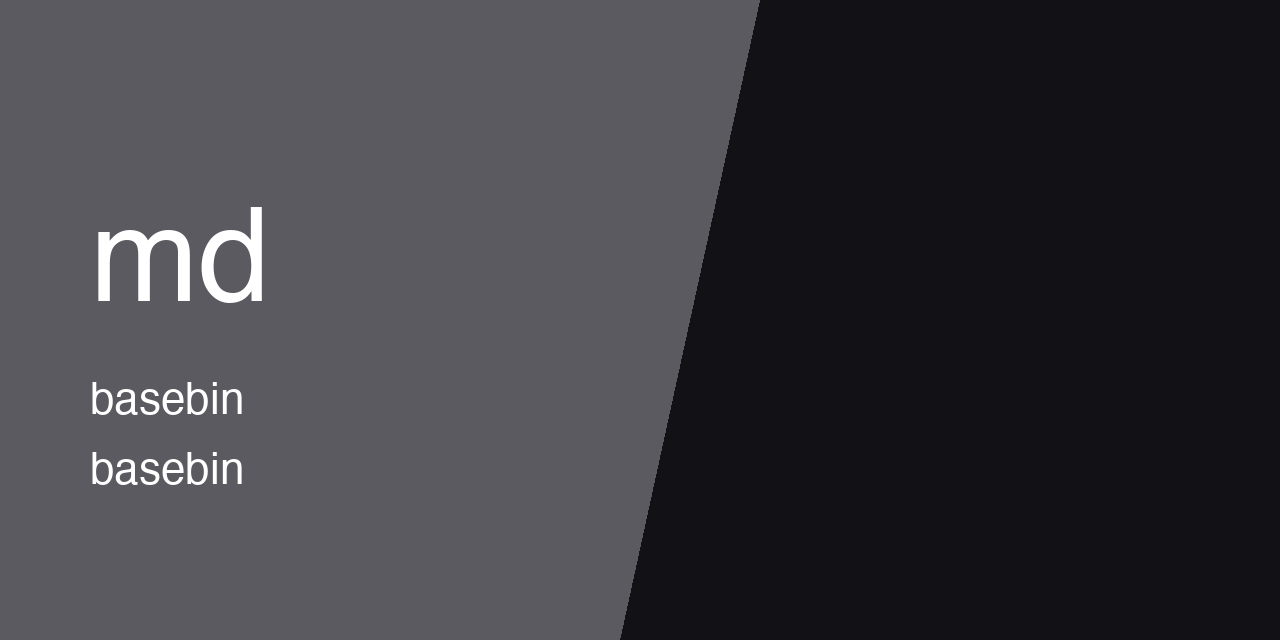
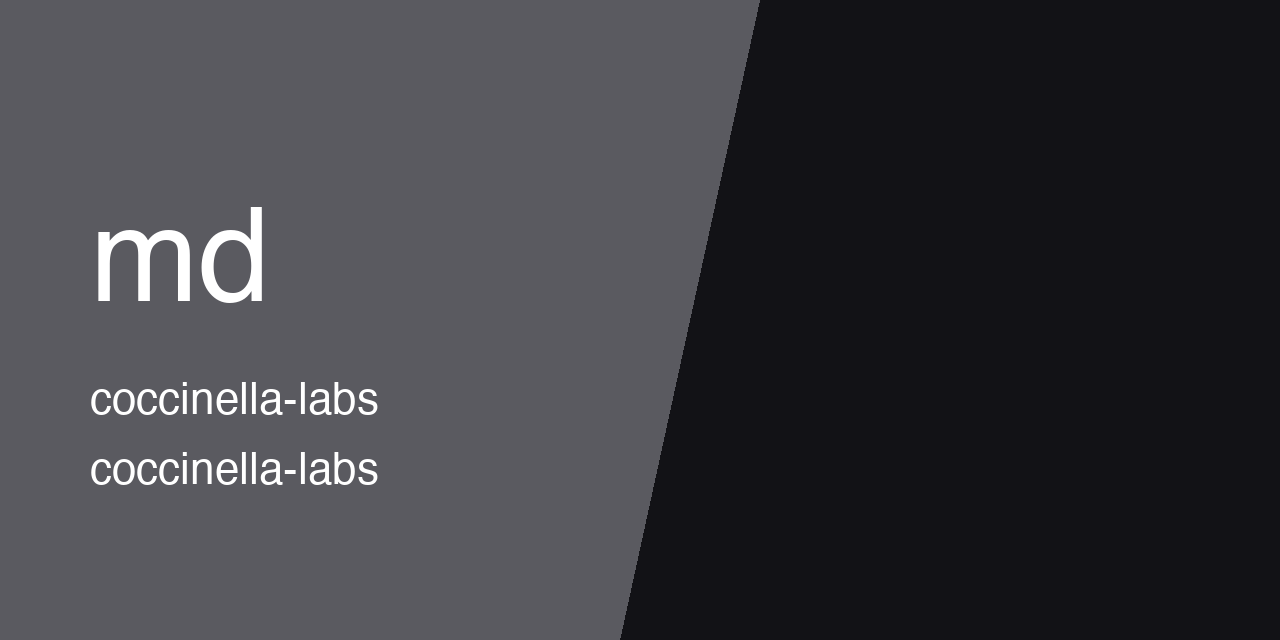
[docs] move thumbnail to coccinella-labs

Changed region(s): [[0.0625, 0.5938, 0.3125, 0.6562], [0.0625, 0.7188, 0.3125, 0.7812]]

diff --git a/README.md b/README.md
@@ -1,5 +1,5 @@
 <p align="center">
-  <img src="https://raw.githubusercontent.com/basebin/md/main/.github/assets/thumbnail.png" alt="md" width="100%">
+  <img src="https://raw.githubusercontent.com/Coccinella-Labs/md/main/.github/assets/thumbnail.png" alt="md" width="100%">
 </p>
 
 # Your Project Name
